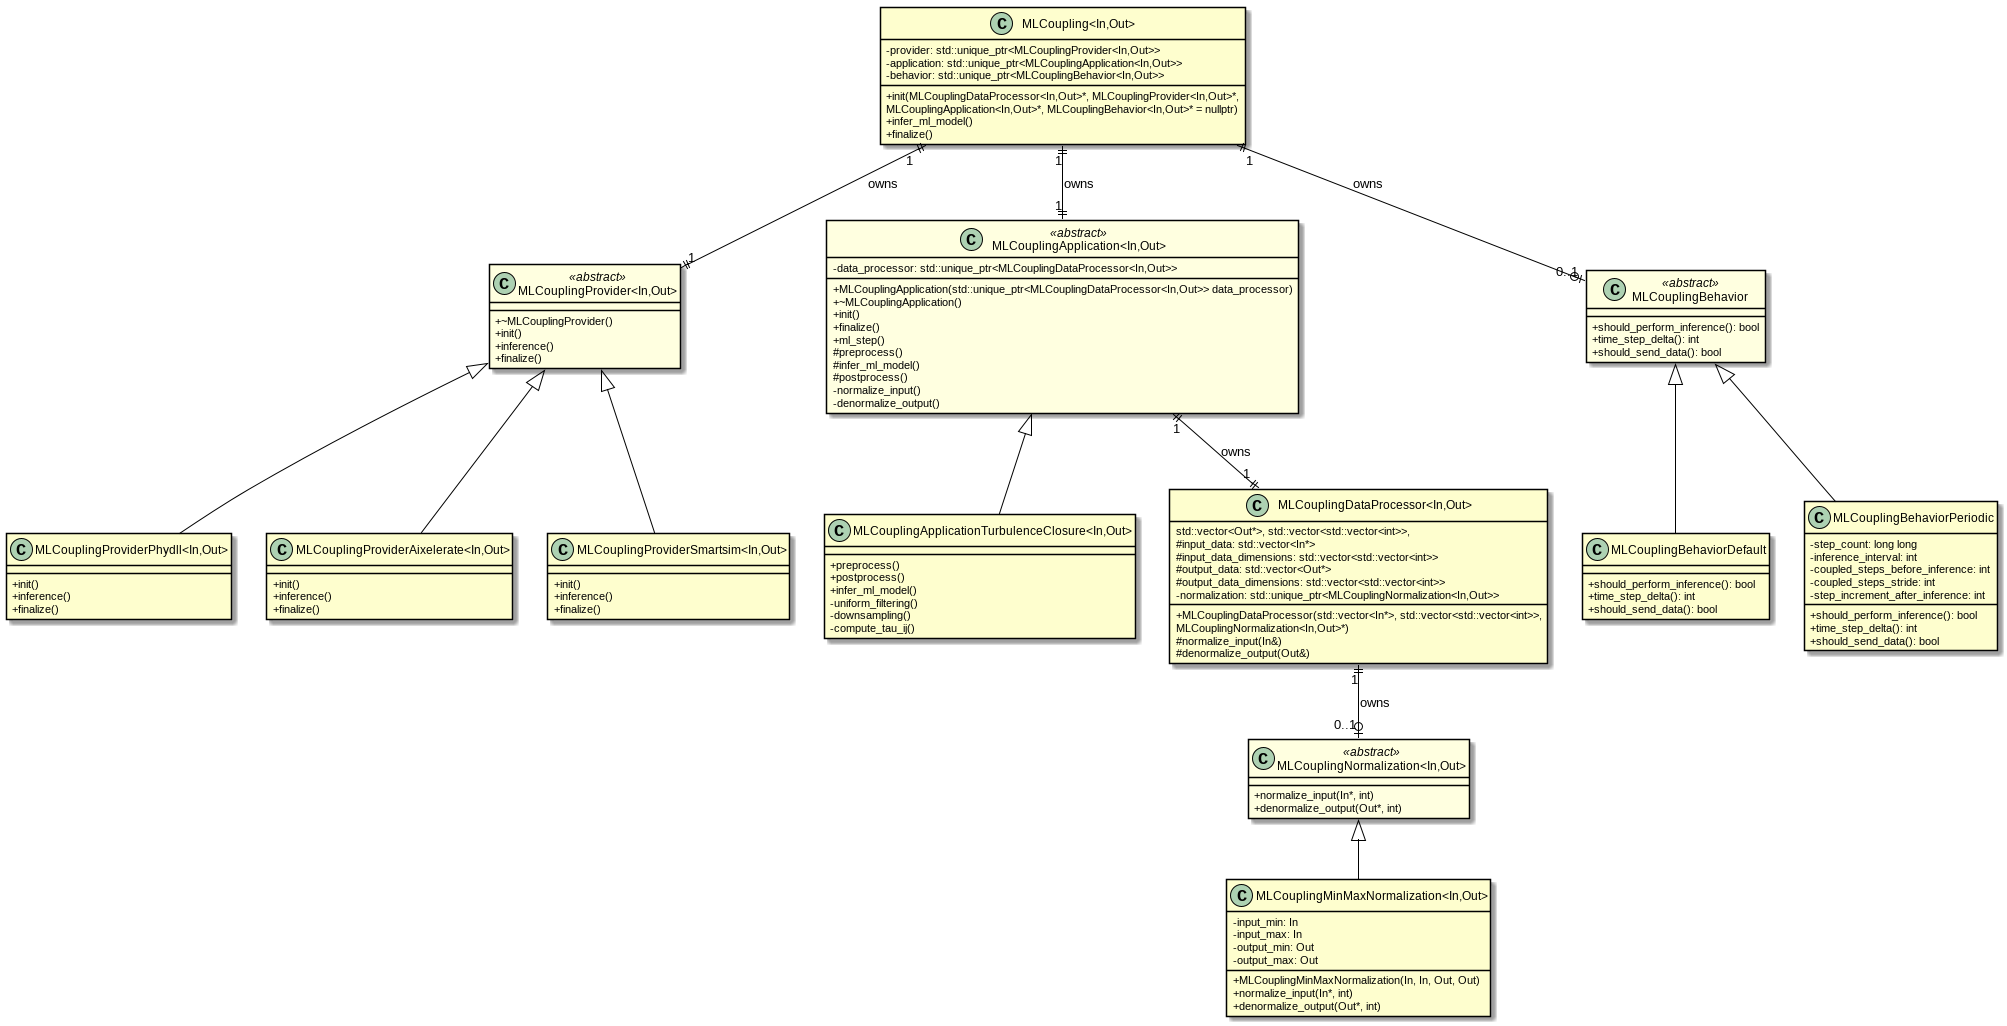
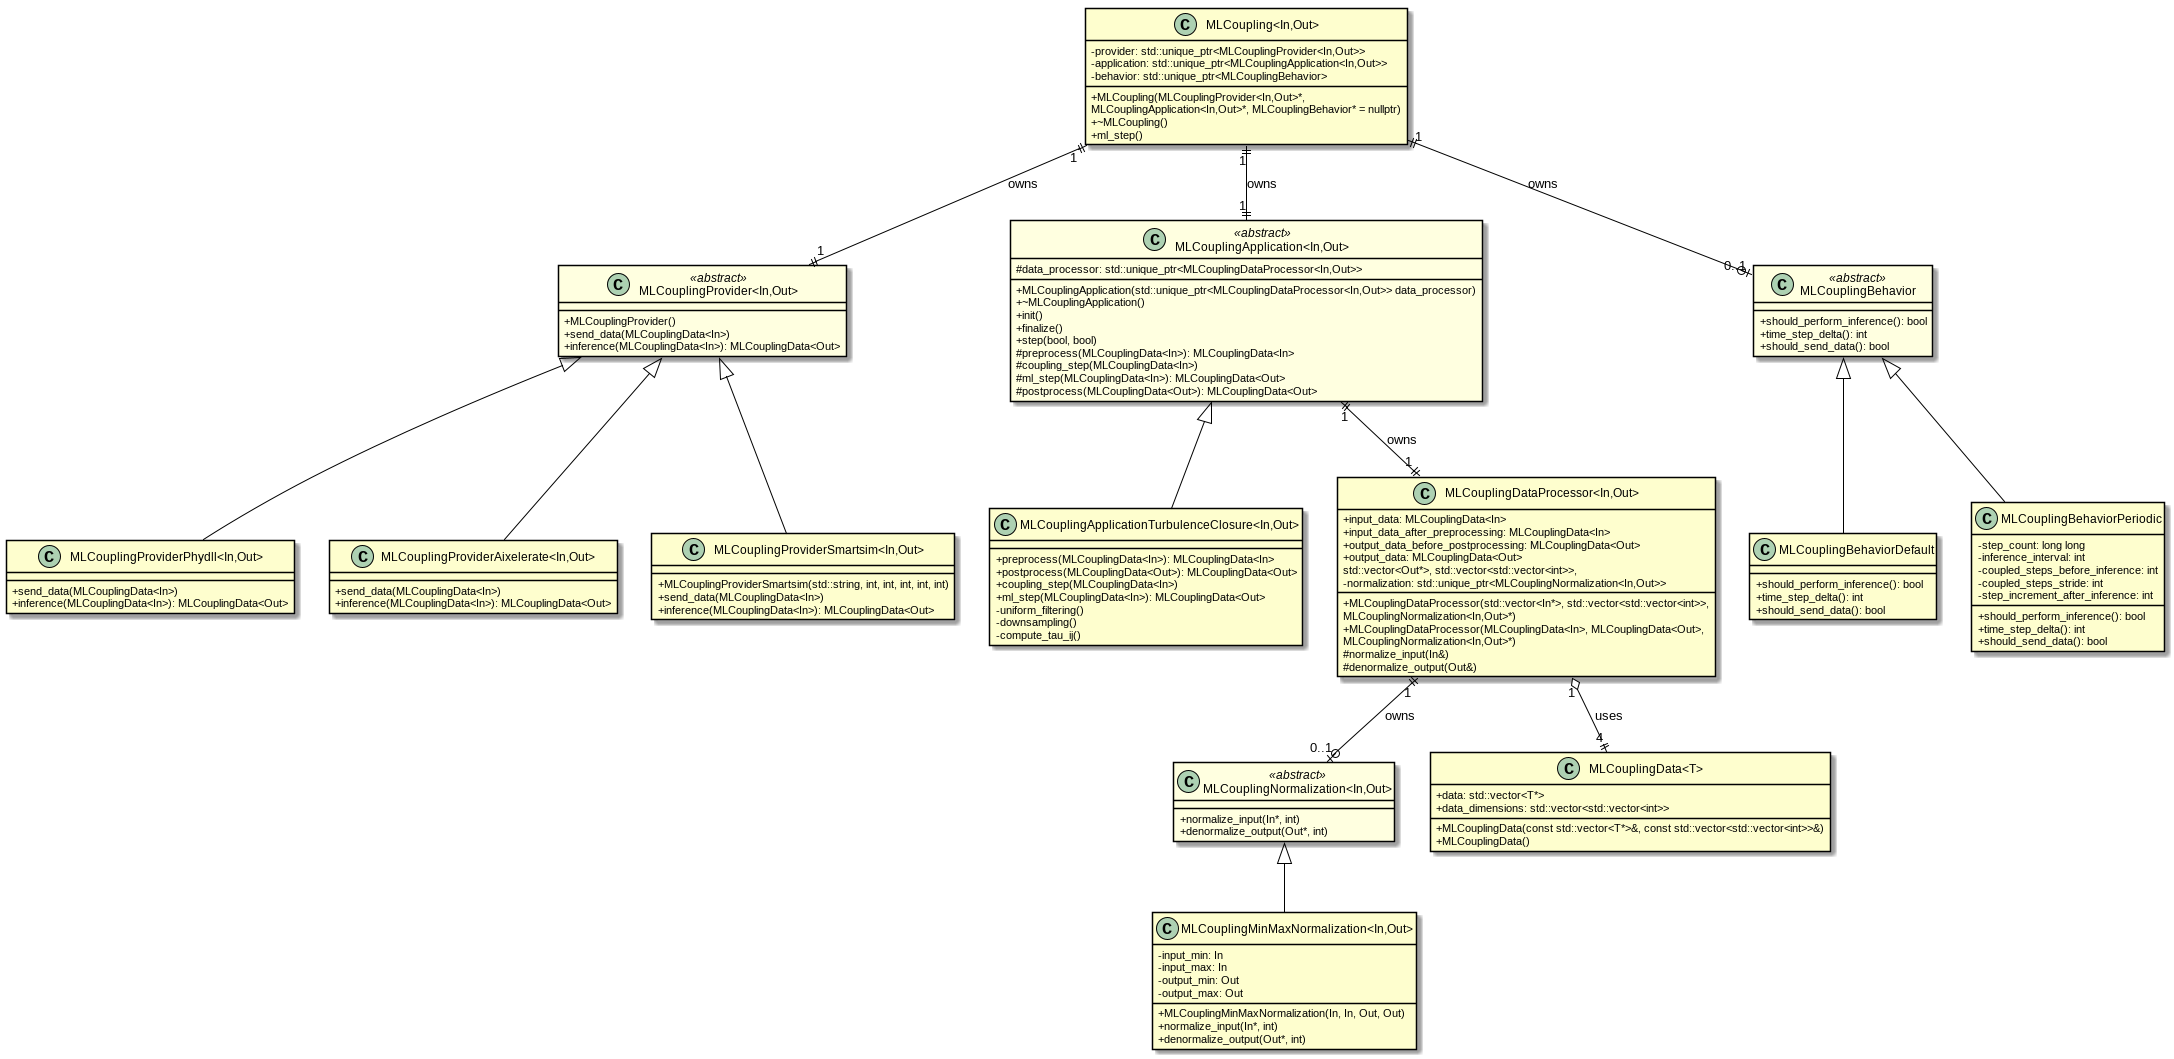
Refactor MLCoupling and related classes for improved design and functionality
- Updated MLCoupling class to use a constructor for initialization and removed data_processor member.
- Modified MLCouplingApplication to streamline data processing methods and added new method signatures.
- Introduced MLCouplingData class to encapsulate input and output data handling.
- Simplified MLCouplingProvider interface by removing init and finalize methods.
- Adjusted MLCouplingProviderAixelerate, MLCouplingProviderPhydll, and MLCouplingProviderSmartsim implementations to reflect changes in the base class.
- Enhanced UML documentation to reflect the new class structure and relationships.

diff --git a/include/ml_coupling.hpp b/include/ml_coupling.hpp
@@ -17,12 +17,10 @@ class MLCoupling
     // would interact with.
     public:
         MLCoupling<In, Out>(
-                  MLCouplingDataProcessor<In, Out>* data_processor,
                   MLCouplingProvider<In, Out>* provider,
                   MLCouplingApplication<In, Out>* application,
                   MLCouplingBehavior* behavior = nullptr)
         {
-            this->data_processor.reset(data_processor);
             this->provider.reset(provider);
             this->provider->init();
             this->application.reset(application);
@@ -36,9 +34,9 @@ class MLCoupling
 
         void ml_step() {
             if (application && behavior && behavior->should_perform_inference()) {
-                data_processor->input_data_after_preprocessing = application->preprocess(data_processor->input_data);
+                application->data_processor->input_data_after_preprocessing = application->preprocess(application->data_processor->input_data);
                 application->ml_step();
-                data_processor->output_data_before_postprocessing = application->postprocess(data_processor->output_data);
+                application->data_processor->output_data_before_postprocessing = application->postprocess(application->data_processor->output_data);
             }
         }
 
@@ -52,7 +50,6 @@ class MLCoupling
         }
 
 private:
-    std::unique_ptr<MLCouplingDataProcessor<In, Out>> data_processor;
     std::unique_ptr<MLCouplingProvider<In, Out>> provider;
     std::unique_ptr<MLCouplingApplication<In, Out>> application;
     std::unique_ptr<MLCouplingBehavior> behavior;

diff --git a/include/provider/ml_coupling_provider.hpp b/include/provider/ml_coupling_provider.hpp
@@ -6,10 +6,8 @@
 template <typename In, typename Out>
 class MLCouplingProvider {
     public:
-        virtual ~MLCouplingProvider() = default;
 
-        // Initialize the ML coupling provider
-        virtual void init() = 0;
+        virtual MLCouplingProvider() = default;
 
         // Essentially for the coupling step: send data to the ML model
         virtual void send_data(MLCouplingData<In> input_data_after_preprocessing) = 0;
@@ -18,9 +16,6 @@ class MLCouplingProvider {
         virtual MLCouplingData<Out> inference(MLCouplingData<In> input_data_after_preprocessing) = 0;
 
         // Later, we might add a train() method here as well
-
-        // Finalize and clean up resources
-        virtual void finalize() = 0;
 
         //TODO: consider adding a method to get the MPI communicator if needed, I'm not sure yet
 

diff --git a/include/provider/ml_coupling_provider_aixelerate.hpp b/include/provider/ml_coupling_provider_aixelerate.hpp
@@ -8,9 +8,6 @@ template <typename In, typename Out>
 class MLCouplingProviderAixelerate : public MLCouplingProvider<In, Out> {
 
     public:
-        void init() override {
-            // TODO:
-        }
 
         void send_data(MLCouplingData<In> input_data_after_preprocessing) override
         {
@@ -22,11 +19,5 @@ class MLCouplingProviderAixelerate : public MLCouplingProvider<In, Out> {
             // TODO
             return MLCouplingData<Out>(nullptr, std::vector<std::vector<int>>{});
         }
-
-        void finalize() override {
-            // TODO:
-        }
-
-    private:
 
 };

diff --git a/include/provider/ml_coupling_provider_phydll.hpp b/include/provider/ml_coupling_provider_phydll.hpp
@@ -8,9 +8,6 @@ template <typename In, typename Out>
 class MLCouplingProviderPhydll : public MLCouplingProvider<In, Out> {
 
     public:
-        void init() override {
-            // TODO:
-        }
 
         void send_data(MLCouplingData<In> input_data_after_preprocessing) override
         {
@@ -22,11 +19,5 @@ class MLCouplingProviderPhydll : public MLCouplingProvider<In, Out> {
             // TODO
             return MLCouplingData<Out>(nullptr, std::vector<std::vector<int>>{});
         }
-
-        void finalize() override {
-            // TODO:
-        }
-
-    private:
 
 };

diff --git a/include/provider/ml_coupling_provider_smartsim.hpp b/include/provider/ml_coupling_provider_smartsim.hpp
@@ -20,11 +20,6 @@ public:
         // TODO: So far the parameters are just dummy parameters.
     }
 
-    void init() override
-    {
-        // TODO:
-    }
-
     void send_data(MLCouplingData<In> input_data_after_preprocessing) override
     {
         // TODO
@@ -36,10 +31,4 @@ public:
         return MLCouplingData<Out>(nullptr, std::vector<std::vector<int>>{});
     }
 
-    void finalize() override
-    {
-        // TODO:
-    }
-
-private:
 };
